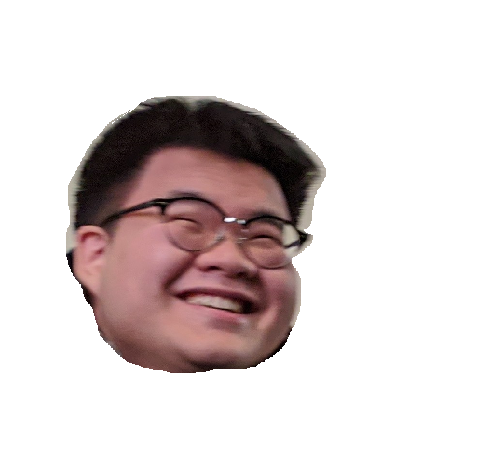
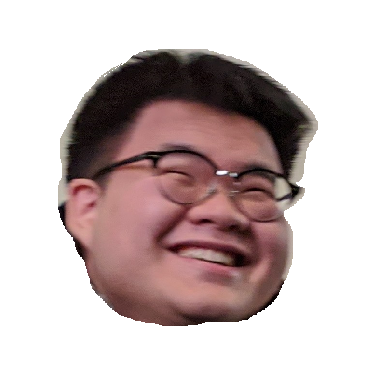
Added MapObjects and fixed open/close functionality for minigames

diff --git a/src/scenes/book_click_minigame.js b/src/scenes/book_click_minigame.js
@@ -13,15 +13,24 @@ class book_click_minigame extends Phaser.Scene {
     super('book_click_minigame');
   }
 
-  init() {
+  /**
+   * Initialize and prepare data.
+   * @param {JSON} data = {
+   *   name: SCENE_NAME,
+   *   dimensions: { width: SCENE_WIDTH, height: SCENE_HEIGHT},
+   *   interactable: MAP_OBJECT
+   * }
+   */
+  init(data) {
     // Worked on by: Alexis
-    this.sceneKey = 'book_click_minigame';
+    this.key = data.name;
+    this.interactable = data.interactable;
     this.background; // The background image to be used for relative positioning.
+
     // Objects used for storing the background image's x,y coordinates:
     this.bottomRightCoords = {};
     this.bottomCentreCoords = {};
     this.centreCoords = {};
-
     this.paperNoteTopLeftCoords = {};
   }
 
@@ -49,19 +58,19 @@ class book_click_minigame extends Phaser.Scene {
   create(data) {
     // Worked on by: Alexis
     // ---------- Background Image ---------- //
-    this.addBackgroundImages(data);
+    this.addBackgroundImages(data.dimensions);
     this.addBooks();
   }
 
   /**
    * Position the bookshelf and note paper images that are in the scene's background.
-   * @param {JSON} data - contains the width and height information for the background.
+   * @param {JSON} dimensions - contains the width and height information for the background.
    */
-  addBackgroundImages(data) {
+  addBackgroundImages(dimensions) {
     // Worked on by: Alexis
     this.background = this.add.image(this.cameras.default.width / 2, this.cameras.default.height / 2, BG_IMG_KEY);
-    this.background.displayWidth = data.width;
-    this.background.displayHeight = data.height;
+    this.background.displayWidth = dimensions.width;
+    this.background.displayHeight = dimensions.height;
 
     // Get x,y coordinates for each corner of the background image.
     this.background.getBottomRight(this.bottomRightCoords);
@@ -86,18 +95,11 @@ class book_click_minigame extends Phaser.Scene {
 
     // Worked on by: Charles
     // ---------- Audio ---------- //
-    let no = this.sound.add('no');
-    let yes = this.sound.add('yes');
     let ok = this.sound.add('ok');
+    let no = this.sound.add('no');
     no.setVolume(0.4);
-    yes.setVolume(0.4);
+    ok.setVolume(0.4);
 
-    // Worked on by: Alexis
-    yes.on('complete', () => {
-      // When the yes audio plays, the win condition has been satisfied.
-      // After the yes audio has finished playing, call the 'won' function.
-      minigame_scene_manager.minigameWon(this.sceneKey);
-    });
 
     // ---------- Book Images ---------- //
     const booksNeeded = 2;
@@ -211,7 +213,7 @@ class book_click_minigame extends Phaser.Scene {
     bravo.on('complete', () => {
       // When the audio plays, the win condition has been satisfied.
       // After the audio has finished playing, call the 'won' function.
-      minigame_scene_manager.minigameWon('book_click_minigame');
+      minigame_scene_manager.minigameWon(this.key, this.interactable);
     });
   }
 }

diff --git a/src/scenes/mouse_click_minigame.js b/src/scenes/mouse_click_minigame.js
@@ -1,4 +1,4 @@
-// Worked on by: Charles Huang, Alexis Mendiola
+// Worked on by: Charles Huang, Alexis C. Mendiola
 const NUM_OF_MICE = 3;
 const MIN_DUR = 400; // minimun amount of time in ms for a mouse to travel from A to B
 const MAX_DUR = 600; // maximum amount of time in ms for a mouse to travel from A to B
@@ -8,14 +8,25 @@ class mouse_click_minigame extends Phaser.Scene {
     super('mouse_click_minigame');
   }
 
-  init() {
+  /**
+   * Initialize and prepare data.
+   * @param {JSON} data = {
+   *   name: SCENE_NAME,
+   *   dimensions: { width: SCENE_WIDTH, height: SCENE_HEIGHT},
+   *   interactable: MAP_OBJECT
+   * }
+   */
+  init(data) {
+    this.key = data.name;
+    this.interactable = data.interactable;
+
     // coordinates of the sides of a table and its size.
     this.tableLeft = 180;
     this.tableRight = 625;
     this.tableTop = 130;
     this.tableBottom = 455;
-    this.tableWidth = (this.tableRight - this.tableLeft);
-    this.tableHeight = (this.tableBottom - this.tableTop);
+    this.tableWidth = this.tableRight - this.tableLeft;
+    this.tableHeight = this.tableBottom - this.tableTop;
   }
 
   preload() {
@@ -28,22 +39,19 @@ class mouse_click_minigame extends Phaser.Scene {
     this.load.video('recorder', '../../assets/video/recorder.mp4');
   }
 
-  create(data) {
+  create() {
     // sound effect of someone saying 'n-yes'
     let nyes = this.sound.add('nyes');
     nyes.setVolume(0.4);
 
-    minigame_scene_manager.setBackground('mouse_click_minigame', 'mouse_click_background');
+    minigame_scene_manager.setBackground(this.key, 'mouse_click_background');
 
-    // setScale does not affect image width/height so separate variables are created
-    let mouseWidth = this.scene.scene.textures.get('mouse').getSourceImage().width;
-    let mouseHeight = this.scene.scene.textures.get('mouse').getSourceImage().height;
     let mice = [];
 
     for (let i = 0; i < NUM_OF_MICE; i++) {
       let randX = Math.random() * this.tableWidth + this.tableLeft;
       let randY = Math.random() * this.tableHeight + this.tableTop;
-      mice.push(this.add.image(randX, randY, 'mouse',));
+      mice.push(this.add.image(randX, randY, 'mouse'));
     }
 
     //add animation and interactive functionality for each mouse
@@ -112,7 +120,7 @@ class mouse_click_minigame extends Phaser.Scene {
     recorder.on('complete', () => {
       // When the audio plays, the win condition has been satisfied.
       // After the audio has finished playing, call the 'won' function.
-      minigame_scene_manager.minigameWon('mouse_click_minigame');
+      minigame_scene_manager.minigameWon(this.key, this.interactable);
     });
   }
   /**

diff --git a/src/scenes/minigame_scene_manager.js b/src/scenes/minigame_scene_manager.js
@@ -32,10 +32,18 @@ class minigame_scene_manager extends Phaser.Scene {
     // Worked on by: Alexis
     // Ensure the launched scene rendered above all of the others:
     this.scene.bringToTop();
-    this.scene.bringToTop(key);
+    this.scene.bringToTop(key.name);
 
-    // Worked on by: Charles
-    this.scene.launch(key, {width: this.minigameWidth, height: this.minigameHeight});
+    // Worked on by: Charles & Alexis
+    const data = {
+      name: key.name,
+      interactable: key.interactable,
+      dimensions: {
+        width: this.minigameWidth,
+        height: this.minigameHeight
+      }
+    }
+    this.scene.launch(key.name, data);
     this.add.rectangle(game.config.width / 2, game.config.height  / 2, this.backgroundWidth, this.backgroundHeight, 0x151515);
     
     // Worked on by: Alexis
@@ -46,7 +54,7 @@ class minigame_scene_manager extends Phaser.Scene {
     exitButt.setY((game.config.height - this.backgroundHeight) / 2 + exitButt.displayHeight / 2 + this.buttPadding);
     exitButt.setInteractive();
     exitButt.on('pointerdown', () => {
-        minigame_scene_manager.end(key);
+        minigame_scene_manager.end(key.name);
     });
 
     // Worked on by: Charles
@@ -56,7 +64,7 @@ class minigame_scene_manager extends Phaser.Scene {
       let xBorder = this.game.config.width / 2 - this.backgroundWidth / 2;
       let yBorder = this.game.config.height / 2 - this.backgroundHeight / 2;
       if (xPos < xBorder || xPos > xBorder + this.backgroundWidth || yPos < yBorder || yPos > yBorder + this.backgroundHeight) {
-        minigame_scene_manager.end(key);
+        minigame_scene_manager.end(key.name);
       }
   });
   }
@@ -75,12 +83,13 @@ class minigame_scene_manager extends Phaser.Scene {
     game.scene.stop(key);
   }
 
-  static minigameWon(key) {
+  static minigameWon(key, interactable) {
     // Worked on by: Alexis
 
     // TODO:
     // Logic for notifying server to update taskbar after minigame completion.
     console.log('Minigame completed.');
+    interactable.setActive(false);
     minigame_scene_manager.end(key);
   }
 

diff --git a/src/scenes/gameplay_scene.js b/src/scenes/gameplay_scene.js
@@ -48,6 +48,7 @@ class gameplay_scene extends Phaser.Scene {
     this.load.audio('BGM', '../../assets/audio/BGM.mp3');
     this.load.image('bookshelfMinigame', '../../assets/bookshelf.png');
     this.load.image('trapMakingMinigame', '../../assets/shelfAndTable.png');
+    this.load.image('mouseClickMinigame', '../../assets/kiwonface.png');
   }
 
   create() {
@@ -208,13 +209,16 @@ class gameplay_scene extends Phaser.Scene {
     return otherPlayer;
   }
 
+  /**
+   * Add MapObjects to the gameplay scene, each with its own minigame attached.
+   */
   addInteractables() {
     // Worked on by: Alexis
 
     this.bookshelfMinigameObj = new MapObject({
       scene: this,
-      x: 1200,
-      y: 115,
+      x: 3350,
+      y: 928,
       sprite: 'bookshelfMinigame',
       triggeredScene: 'book_click_minigame',
       isMinigameObj: true,
@@ -225,8 +229,8 @@ class gameplay_scene extends Phaser.Scene {
 
     this.trapMinigameObj = new MapObject({
       scene: this,
-      x: 1400,
-      y: 115,
+      x: 3500,
+      y: 928,
       sprite: 'trapMakingMinigame',
       triggeredScene: 'trap_making_minigame',
       isMinigameObj: true,
@@ -235,9 +239,22 @@ class gameplay_scene extends Phaser.Scene {
     this.add.existing(this.trapMinigameObj);
     this.physics.add.existing(this.trapMinigameObj);
 
+    this.mouseMinigameObj = new MapObject({
+      scene: this,
+      x: 643,
+      y: 1685,
+      sprite: 'mouseClickMinigame',
+      triggeredScene: 'mouse_click_minigame',
+      isMinigameObj: true,
+      isIqlaInteractable: null
+    });
+    this.add.existing(this.mouseMinigameObj).setScale(0.5);
+    this.physics.add.existing(this.mouseMinigameObj);
+
     // ------------ Add MapObjects to a physics group ------------ //
     this.interactables.add(this.bookshelfMinigameObj);
     this.interactables.add(this.trapMinigameObj);
+    this.interactables.add(this.mouseMinigameObj);
   }
 
   triggerScene(pauseKey, launchKey, launchData) {

diff --git a/src/scenes/trap_making_minigame.js b/src/scenes/trap_making_minigame.js
@@ -8,12 +8,20 @@ class trap_making_minigame extends Phaser.Scene {
       super('trap_making_minigame');
     }
 
+    /**
+     * Initialize and prepare data.
+     * @param {JSON} data = {
+     *   name: SCENE_NAME,
+     *   dimensions: { width: SCENE_WIDTH, height: SCENE_HEIGHT},
+     *   interactable: MAP_OBJECT
+     * }
+     */
     init(data) {
-      // initialize and prepare data
-      // constants, configurations, etc.
-      this.boardWidth = data.width;
-      this.boardHeight = data.height;
+      this.boardWidth = data.dimensions.width;
+      this.boardHeight = data.dimensions.height;
       this.correctPlacementCount = 0;
+      this.interactable = data.interactable;
+      this.key = data.name;
     }
 
     preload() {
@@ -34,7 +42,7 @@ class trap_making_minigame extends Phaser.Scene {
 
     create() {
       // Worked on by: Charles
-      minigame_scene_manager.setBackground('trap_making_minigame', 'trap_making_background');
+      minigame_scene_manager.setBackground(this.key, 'trap_making_background');
   
       let wrong = this.sound.add('wrong');
       let wow = this.sound.add('wow');
@@ -140,7 +148,7 @@ class trap_making_minigame extends Phaser.Scene {
     omgwow.on('complete', () => {
       // When the audio plays, the win condition has been satisfied.
       // After the audio has finished playing, call the 'won' function.
-      minigame_scene_manager.minigameWon('trap_making_minigame');
+      minigame_scene_manager.minigameWon(this.key, this.interactable);
     });
   }
 }

diff --git a/src/scenes/ui/playerUI_scene.js b/src/scenes/ui/playerUI_scene.js
@@ -216,15 +216,20 @@ class playerUI_scene extends Phaser.Scene {
     this.registry.values.sceneData.serverConnection.taskCompleted();
   }
 
+  /**
+   * Called when the "Use" button is pressed on the PlayerUI_Scene.
+   * Get a group of interactable MapObjects from the gameplay scene,
+   * interact with the one closest to the player, and then trigger the 
+   * corresponding scene.
+   */
   use() {
     // Worked on by: Alexis
-    console.log('use');
     let gameplay = this.scene.get('gameplay_scene');
     let interactable = gameplay.player.interact(gameplay.interactables.getChildren());
 
     if (interactable) {
       gameplay.triggerScene('playerUI_scene', interactable.getLaunchKey(), {
-        data: interactable.getLaunchData(),
+        name: interactable.getLaunchData(),
         interactable: interactable
       });
     }

diff --git a/src/scenes/mainmenu_scene.js b/src/scenes/mainmenu_scene.js
@@ -63,7 +63,7 @@ class mainmenu_scene extends Phaser.Scene {
     this.trap_making_minigame_text.setInteractive();
     this.trap_making_minigame_text.on('pointerdown', () => {
       this.scene.pause();
-      this.scene.launch('minigame_scene_manager', 'trap_making_minigame');
+      this.scene.launch('minigame_scene_manager', {name: 'trap_making_minigame'});
     });
 
     this.mouse_click_text = this.add.text(20, 180, 'Kill Scene', {font: '25px Arial', fill: 'yellow'});

diff --git a/src/js/gameObjects/map_object.js b/src/js/gameObjects/map_object.js
@@ -29,6 +29,9 @@ class MapObject extends Phaser.Physics.Arcade.Sprite {
    * @param {boolean} isIqla 
    */
   canInteract(isIqla) {
+    if (this.isIqlaInteractable === null) { // If interactable is neutral.
+      return true;
+    }
     return isIqla && this.isIqlaInteractable || !isIqla && !this.isIqlaInteractable;
   }
 }
